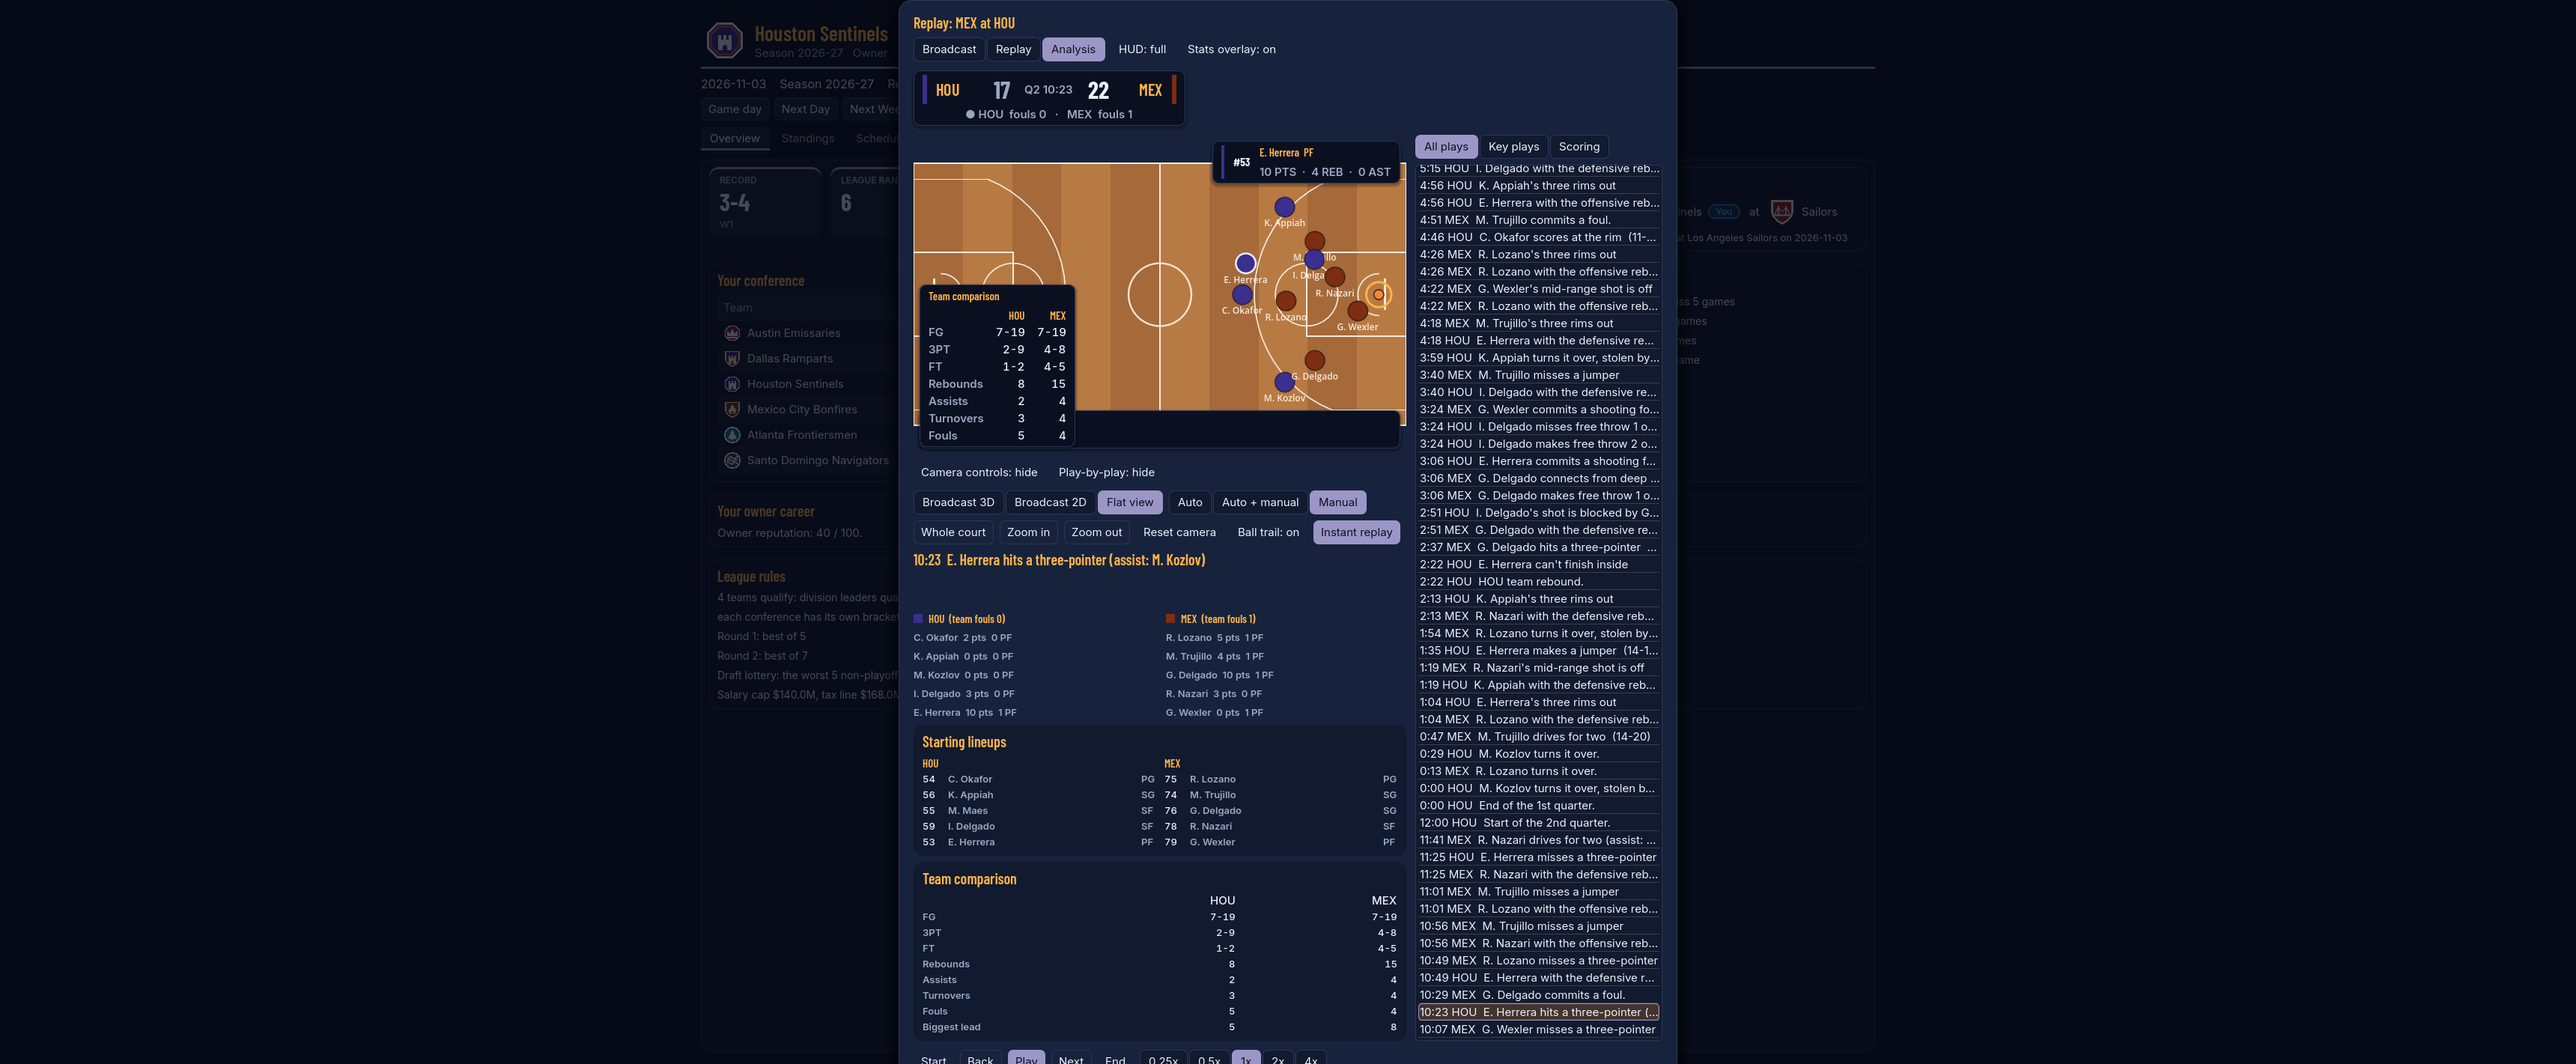
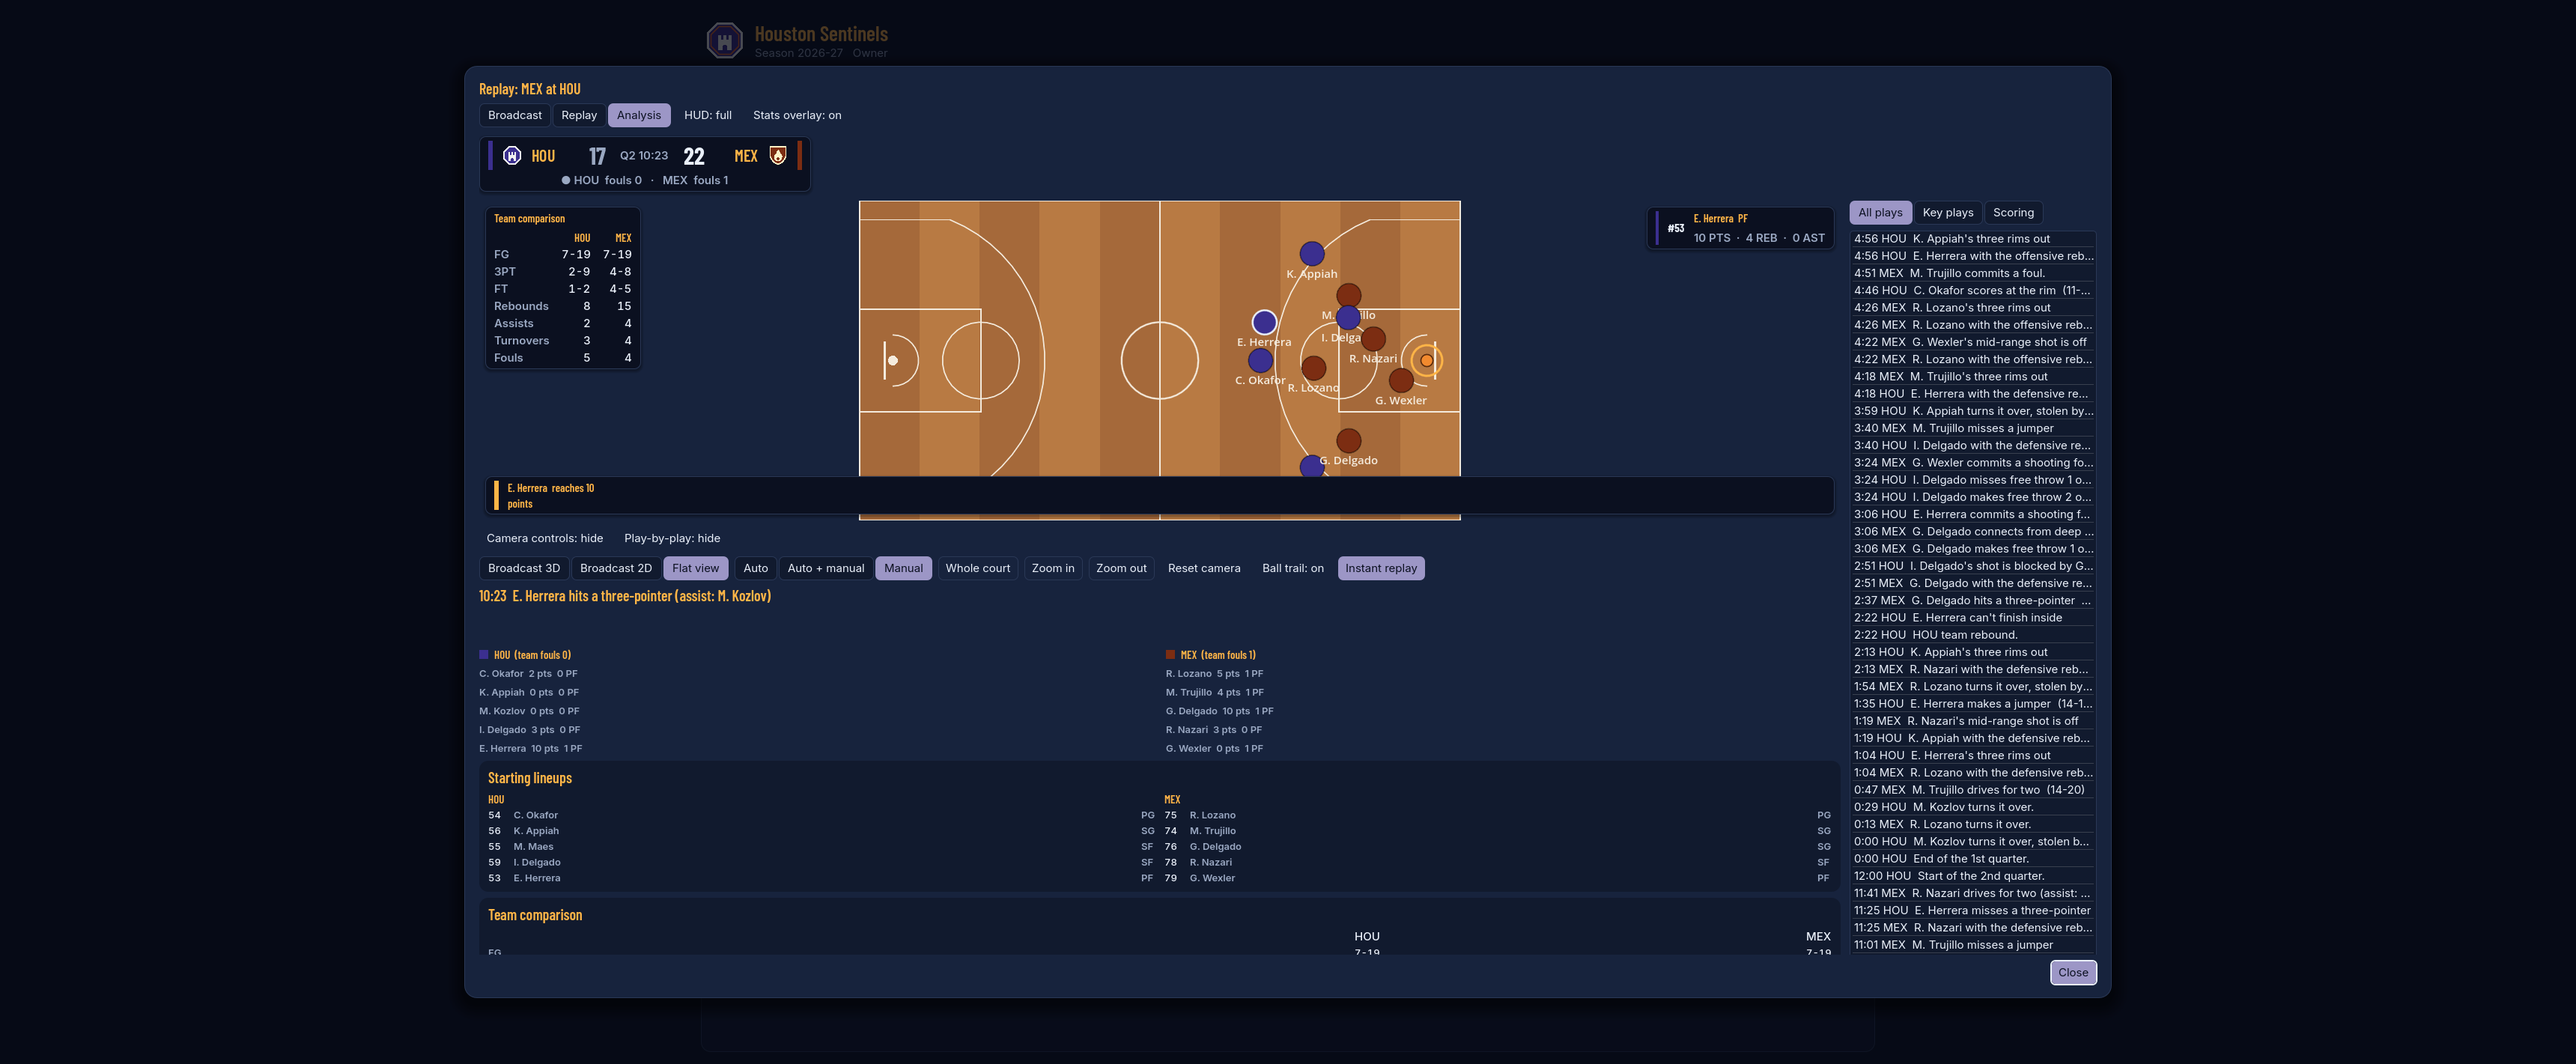
Broadcast pass 2 M2 completion: scoreboard crests, stoppage model, wide scrolling replay dialog
Shot clock now hides at every recorded stoppage and the scoreboard says why (FcStoppageModel). FcScoreBug.set_crests
(Owner and Career). Replay dialog sized from the window and scrollable. Screenshots at 1080p, 1440p and ultrawide.

Changed region(s): [[0.1555, 0.0, 0.8398, 1.0], [0.4355, 0.5574, 0.4977, 0.7122], [0.4355, 0.7431, 0.4977, 0.8051]]

diff --git a/docs/FEATURE_MATRIX.md b/docs/FEATURE_MATRIX.md
@@ -41,8 +41,8 @@ This is the one place that says what is built. `ROADMAP.md`, `RELEASE_READINESS.
 | Highlights (`FcHighlights`, Previous/Next highlight buttons in `FcReplayScreen`, B6): up to 8 moments of a game chosen from the recorded events only (milestones, runs, lead changes, ties, blocks, scoring, with bonuses for clutch time, threes and the last basket), at least 8 events apart, in game order, repeatable; the buttons pause and jump, working in the 2D and 3D views and with the existing instant replay | Built | `test_highlights` (4: repeatable, ordered, spaced, limited; the closing basket is included; neighbours and edges; no game data changed), `test_live_instant_replay` (buttons jump, pause, visit each once, stop at the ends). Not built: an automatic highlight reel that plays them in a row, replays from other 3D angles |
 | Starting-lineups card (`FcBroadcastGraphics.lineup_card`, panel in `FcReplayScreen`, B5 first part): the five recorded starters of each team in position order with display jersey number (per game, nothing stored, D-070), short name and position, in all three modes' replays | Built | `test_broadcast_graphics` (lineup card: five recorded starters per side on 6 seeds, numbers not shared, empty timeline), `test_live_broadcast_graphics` (card present and equal to the starters). Halftime and final panels already exist (B2b). Not built: pregame storylines package, a lineup introduction sequence |
 | 3D broadcast viewer (`FcBroadcast3DView`, `FcCourtScene`, `FcBroadcastCharacter`, `FcBroadcastPose`, `FcBroadcast3DRules`, `FcJerseyNumbers`, B4, D-070 3D-REDUCED): the replay screen can show the same replay in 3D from a broadcast camera (arena, crowd that stands on cheers, scoreboard, ten code-built characters walking to the reconstructed positions, ball in hand or in flight), driven by the same camera director and rig as 2D; views Broadcast 3D, Broadcast 2D, Flat; if 3D cannot be built the 2D court shows with a note and nothing is lost; camera never closer than 28 ft (no 3D close-up); no mobile 3D; display jersey numbers per game, nothing stored | Built | `test_broadcast3d_rules` (10), `test_live_broadcast3d` (6: ten characters, switching loses nothing, characters at reconstructed positions, forced failure keeps a working 2D screen, camera minimum distance and manual control, game data unchanged), performance PASS against the pre-registered limits on the development machine only (`docs/validation/B4_3D_VIEWER.md`). Not built: 3D close-ups, replays from other angles, lower-end hardware measurement, stored jersey numbers |
-| Presentation modes and HUD (`FcPresentationMode`, `FcPlaybackState`, replay screen, Broadcast pass 2 M1, D-071): Broadcast (3D court dominant, director on auto, scoreboard, graphics and captions only), Replay (scrubber, periods, highlights, feed, contextual camera panel), Analysis (tactical flat court, manual camera, feed, rosters, lineups, team card); HUD Full/Minimal/Hidden (key H); foldable feed and camera panel; mode switch never moves the replay; choice remembered in preferences | Built | `test_presentation_mode` (6), `test_live_presentation_modes` (7), screenshots `docs/validation/ui/replay/m1/`. Open: the dialog stays 1040 px wide on wide windows |
-| Broadcast graphics and provenance (Broadcast pass 2 M2, D-071): identity kit (`data/ui/broadcast_identity.json`, `FcBroadcastStyle`: timings, reduced-motion timings, transitions, gold and spotlight kinds), provenance record (`FcPresentationEvent`: source, confidence, importance, actions; only recorded or derived exact data may be stated as fact), estimated shot clock (`FcShotClockModel`, read from the recorded game clock, labelled "SHOT CLOCK ≈", hidden when misleading), player spotlight (`FcSpotlightModel`, `FcPlayerSpotlight`), animated lower third that leaves by itself in Broadcast mode, statistics overlay (`FcStatsOverlay`, key S), the 19.5% timing investigation | Built | `test_broadcast_pass2_graphics` (10), `test_live_broadcast_pass2_graphics` (5), report `docs/validation/B2_PASS2_RECONSTRUCTION_TIMING.md`, screenshots `docs/validation/ui/replay/m2/`. Not built: crest on the scoreboard, a separate stoppage graphic |
+| Presentation modes and HUD (`FcPresentationMode`, `FcPlaybackState`, replay screen, Broadcast pass 2 M1, D-071): Broadcast (3D court dominant, director on auto, scoreboard, graphics and captions only), Replay (scrubber, periods, highlights, feed, contextual camera panel), Analysis (tactical flat court, manual camera, feed, rosters, lineups, team card); HUD Full/Minimal/Hidden (key H); foldable feed and camera panel; mode switch never moves the replay; choice remembered in preferences | Built | `test_presentation_mode` (6), `test_live_presentation_modes` (7), screenshots `docs/validation/ui/replay/m1/`. Dialog width fixed in M2 |
+| Broadcast graphics and provenance (Broadcast pass 2 M2, D-071): identity kit (`data/ui/broadcast_identity.json`, `FcBroadcastStyle`: timings, reduced-motion timings, transitions, gold and spotlight kinds), provenance record (`FcPresentationEvent`: source, confidence, importance, actions; only recorded or derived exact data may be stated as fact), estimated shot clock (`FcShotClockModel`, read from the recorded game clock, labelled "SHOT CLOCK ≈", hidden when misleading), player spotlight (`FcSpotlightModel`, `FcPlayerSpotlight`), animated lower third that leaves by itself in Broadcast mode, statistics overlay (`FcStatsOverlay`, key S), the 19.5% timing investigation | Built | `test_broadcast_pass2_graphics` (11), `test_live_broadcast_pass2_graphics` (6), report `docs/validation/B2_PASS2_RECONSTRUCTION_TIMING.md`, screenshots `docs/validation/ui/replay/m2/`. Also: team crests on the scoreboard (Owner and Career; `FcScoreBug.set_crests`), a stoppage line from recorded event types (`FcStoppageModel`, no timeouts exist), a wide scrolling replay dialog (about 85% of the window wide, 80% tall). Open: Dynasty replays show no crests (no world teams) |
 | Game-day preview (`FcGameDay`): next game, records, ranks, projected starters (the same five the game starts), injuries, and Play this game then summary and replay; from the Owner dashboard and the Career hub, plus a Career recent-games picker with replay | Built | `test_game_day`, `live/test_live_game_day`; picture in `docs/validation/ui/replay/`. Lineups stay with the coaches in Owner Mode by design (D-029); Career asks for a role in its own screen; Dynasty has its own lineup screen. Not in Dynasty (it has no schedule). |
 | Box score storage and game history | Partial | Owner and Career keep the owner team's last 20 boxes, with their play-by-play, in the season (`test_news`, `test_game_history`); Dynasty keeps a summary for 25 games and the full replay of the last 5 (`test_dynasty_replays`); boxes are dropped when a season is archived. No full game history for all games. |
 | Design system, component kit, shell and navigation, ratchets | Built | `test_ui_design_system`, `test_ui_kit`, `test_ui_shell`, `test_ui_style_lint`, `test_ui_layout`, `test_ui_motion`, `test_ui_states`, `live/test_live_kit`, `live/test_live_shell`, `live/test_live_motion` |

diff --git a/docs/TESTING.md b/docs/TESTING.md
@@ -10,8 +10,8 @@ Every other document points here instead of repeating numbers. These come only f
 
 | Kind | What it is | Last result | How to run |
 |---|---|---|---|
-| Unit | `tests/unit/test_*.gd`, headless, fixed seeds | **1,568 passed, 0 failed** | `./tools/run_tests.ps1` |
-| Live | `tests/live/test_live_*.gd`, real scene tree, awaits frames | **198 passed, 0 failed** | `./tools/run_live_tests.ps1` |
+| Unit | `tests/unit/test_*.gd`, headless, fixed seeds | **1,569 passed, 0 failed** | `./tools/run_tests.ps1` |
+| Live | `tests/live/test_live_*.gd`, real scene tree, awaits frames | **199 passed, 0 failed** | `./tools/run_live_tests.ps1` |
 | Creator Studio smoke | separate project, `creator_studio/tools/studio_smoke.gd` | **PASS** (run `--import --quit` on `creator_studio` first after adding new game class files, or the smoke test can hang on a stale cache) | `godot_console --headless --path creator_studio --script res://tools/studio_smoke.gd` |
 | Simulation and stress | `simulate_games`, `economy_check`, `owner_stress`, `ui_playthrough`, `career_balance` and similar tools in `tools/` | **Not re-run in Phase 1** (nothing in the simulation changed). Results are in `STABILITY_REPORT.md` and `RELEASE_READINESS.md` as historical records with their own dates. | `tools/*.ps1` |
 | Manual validation | founder playtests, Android device checklist, screenshot review | **Not automated.** Outstanding items are in `DEVICE_VALIDATION.md` and `RELEASE_READINESS.md` section 3 to 4. | by hand |

diff --git a/docs/plans/BROADCAST_PASS2_PLAN.md b/docs/plans/BROADCAST_PASS2_PLAN.md
@@ -71,5 +71,5 @@ Per milestone: `godot_console --headless --path . --import --quit` (when adding 
 - Rule: a mode switch never changes `FcPlaybackState` (live-tested, including during an instant replay).
 
 ## Status
-- M2: built (provenance, identity kit, shot clock estimate, spotlight, lower third, stats overlay, timing report).
-- M1: built (see D-071 and `docs/validation/ui/replay/m1/`). Open item: the replay dialog stays 1040 px wide on wide windows (the stage grows in height; width sizing needs a window handle that is not available when the dialog opens).
+- M2: built and complete (provenance, identity kit, shot clock estimate, spotlight, lower third, stats overlay, crests, stoppage line, wide scrolling dialog, timing report).
+- M1: built (see D-071 and `docs/validation/ui/replay/m1/`). The 1040 px dialog width was fixed in M2.
